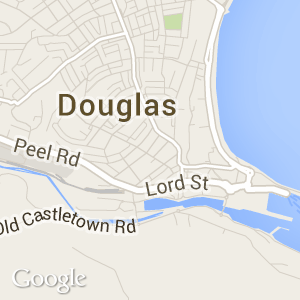
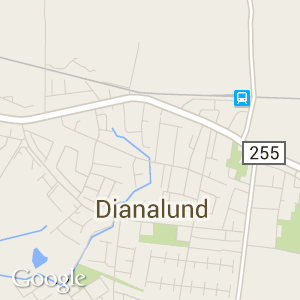
working map tile refresh

diff --git a/extension.js b/extension.js
@@ -7,6 +7,8 @@ const Lang = imports.lang;
 const Shell = imports.gi.Shell;
 const St = imports.gi.St;
 const Tweener = imports.ui.tweener;
+const Gtk = imports.gi.Gtk;
+const GtkClutter = imports.gi.GtkClutter;
 
 const Main = imports.ui.main;
 const PanelMenu = imports.ui.panelMenu;
@@ -26,7 +28,7 @@ const ICON_SIZE = 16;
 
 function _showPopup(label) {
 
-    text = new St.Label({ style_class: 'helloworld-label', text: label});
+    let text = new St.Label({ style_class: 'helloworld-label', text: label});
     Main.uiGroup.add_actor(text);
 
     text.opacity = 255;
@@ -63,6 +65,34 @@ function _getIPDetails(ipAddr, callback) {
   });
 }
 
+function _getGoogleMapTile(ipData, callback) {
+
+  const Gio = imports.gi.Gio;
+  const Soup = imports.gi.Soup;
+
+  // start an http session to make http requests
+  let _httpSession = new Soup.SessionAsync();
+  Soup.Session.prototype.add_feature.call(_httpSession, new Soup.ProxyResolverDefault());
+
+  // open the file
+  let file = Gio.file_new_for_path(Me.path + '/icons/latest_map.png');
+  let fstream = file.replace(null, false, Gio.FileCreateFlags.NONE, null);
+
+  // start the download
+  let request = Soup.Message.new('GET', 'https://maps.googleapis.com/maps/api/staticmap?center='+ipData.loc+'&size=150x150&zoom=13&scale=2');
+  request.connect('got_chunk', Lang.bind(this, function(message, chunk){
+    // write each chunk to file
+    fstream.write(chunk.get_data(), null, chunk.length);
+  }));
+
+  _httpSession.queue_message(request, function(_httpSession, message) {
+    // close the file
+    fstream.close(null);
+    callback(null);
+  });
+
+}
+
 function _getIP(callback) {
 
   let _httpSession = new Soup.SessionAsync();
@@ -81,14 +111,14 @@ function _getIP(callback) {
 }
 
 const DEFAULT_DATA = {
-  ip: "42.42.42.42",
-  hostname: "a23-66-166-151.deploy.static.akamaitechnologies.com",
-  city: "Cambridge",
-  region: "Massachusetts",
-  country: "US",
-  loc: "42.3626,-71.0843",
-  org: "AS16625 Akamai Technologies, Inc.",
-  postal: "02142"
+  ip: "No Connection",
+  hostname: "waiting for data",
+  city: "waiting for data",
+  region: "waiting for data",
+  country: "waiting for data",
+  loc: "waiting for data",
+  org: "waiting for data",
+  postal: "waiting for data"
 };
 
 const IPMenu = new Lang.Class({ //menu bar item
@@ -96,6 +126,7 @@ const IPMenu = new Lang.Class({ //menu bar item
   Extends: PanelMenu.Button,
   _init: function() {
     this.parent(0.0, _("Example"));
+    this._textureCache = St.TextureCache.get_default();
 
     let hbox = new St.BoxLayout({ style_class: 'panel-status-menu-box' });
 
@@ -104,7 +135,8 @@ const IPMenu = new Lang.Class({ //menu bar item
       icon_size: ICON_SIZE
     });
 
-    this._label = new St.Label({ text: DEFAULT_DATA.ip });
+    this._ipAddr = DEFAULT_DATA.ip;
+    this._label = new St.Label({ text: this._ipAddr });
 
     hbox.add_child(this._icon);
     hbox.add_child(this._label);
@@ -117,16 +149,16 @@ const IPMenu = new Lang.Class({ //menu bar item
     //
 
     //maptile
-    let mapInfo = new St.BoxLayout();
-    parentContainer.add_actor(mapInfo);
+    this._mapInfo = new St.BoxLayout();
+    parentContainer.add_actor(this._mapInfo);
 
+    //default map tile
     this._mapTile = new St.Icon({
-      style_class: 'map-tile',
       gicon: Gio.icon_new_for_string(Me.path + '/icons/default_map.png'),
       icon_size: 160
     });
 
-    mapInfo.add_actor(this._mapTile);
+    this._mapInfo.add_actor(this._mapTile);
     //
 
     //ipinfo
@@ -139,9 +171,9 @@ const IPMenu = new Lang.Class({ //menu bar item
       if(key !== 'ip'){
         let ipInfoRow = new St.BoxLayout();
         ipInfoBox.add_actor(ipInfoRow);
-        this['_'+key] = DEFAULT_DATA[key];
         ipInfoRow.add_actor(new St.Label({ style_class: 'ip-info-key', text: key + ': ' }));
-        ipInfoRow.add_actor(new St.Label({ style_class: 'ip-info-value', text: DEFAULT_DATA[key] }));
+        this['_'+key] = new St.Label({ style_class: 'ip-info-value', text: DEFAULT_DATA[key] });
+        ipInfoRow.add_actor(this['_'+key]);
       }
     });
     //
@@ -153,11 +185,6 @@ const IPMenu = new Lang.Class({ //menu bar item
   destroy: function() {
     this.stop();
     this.parent();
-  },
-
-  setLabel: function(ipData) {
-     this._label.text = ipData.ip;
-     this._icon.gicon = Gio.icon_new_for_string(Me.path + '/icons/flags/'+ipData.country+'.png');
   },
 
   start: function() {
@@ -173,11 +200,42 @@ const IPMenu = new Lang.Class({ //menu bar item
     }
   },
 
+  updateMapTile: function() {
+    let scaleFactor = St.ThemeContext.get_for_stage(global.stage).scale_factor;
+
+    this._mapInfo.destroy_all_children();
+
+    this._mapInfo.add_child(
+      this._textureCache.load_uri_async(
+      Gio.file_new_for_path(Me.path + '/icons/latest_map.png').get_uri(),
+      -1, 160, scaleFactor));
+  },
+
   update: function() {
+
+    let self = this;
+
     _getIP(function(err, ipAddr){
-      _getIPDetails(ipAddr, function(err,ipData){
-        setLabel(ipData);
-      });
+      if(ipAddr && (self.ipAddr !== ipAddr)){ //we have an IP, and it's different to before
+        self.ipAddr = ipAddr; //changed public IP
+        _getIPDetails(ipAddr, function(err,ipData){
+          if(ipData){
+            self._label.text = ipData.ip;
+
+            Object.keys(ipData).map(function(key){
+              if(key && key !== 'ip'){
+                this['_'+key].text = ipData[key];
+              }
+            });
+
+            self._icon.gicon = Gio.icon_new_for_string(Me.path + '/icons/flags/'+ipData.country+'.png');
+
+            _getGoogleMapTile(ipData, function(err){
+              self.updateMapTile();
+            });
+          }
+        });
+      }
     });
   },
 
@@ -199,8 +257,4 @@ function enable() {
 
 function disable() {
   _indicator.destroy();
-}
-
-function setLabel(text) {
-  _indicator.setLabel(text);
 }

diff --git a/stylesheet.css b/stylesheet.css
@@ -16,13 +16,7 @@
     color: #838A85;
 }
 
-.ip-info-value {
-}
-
-.map-tile {
-    padding-right: 20px;
-}
-
 .ip-info-box {
     padding-top: 5px;
+    padding-left: 20px;
 }
